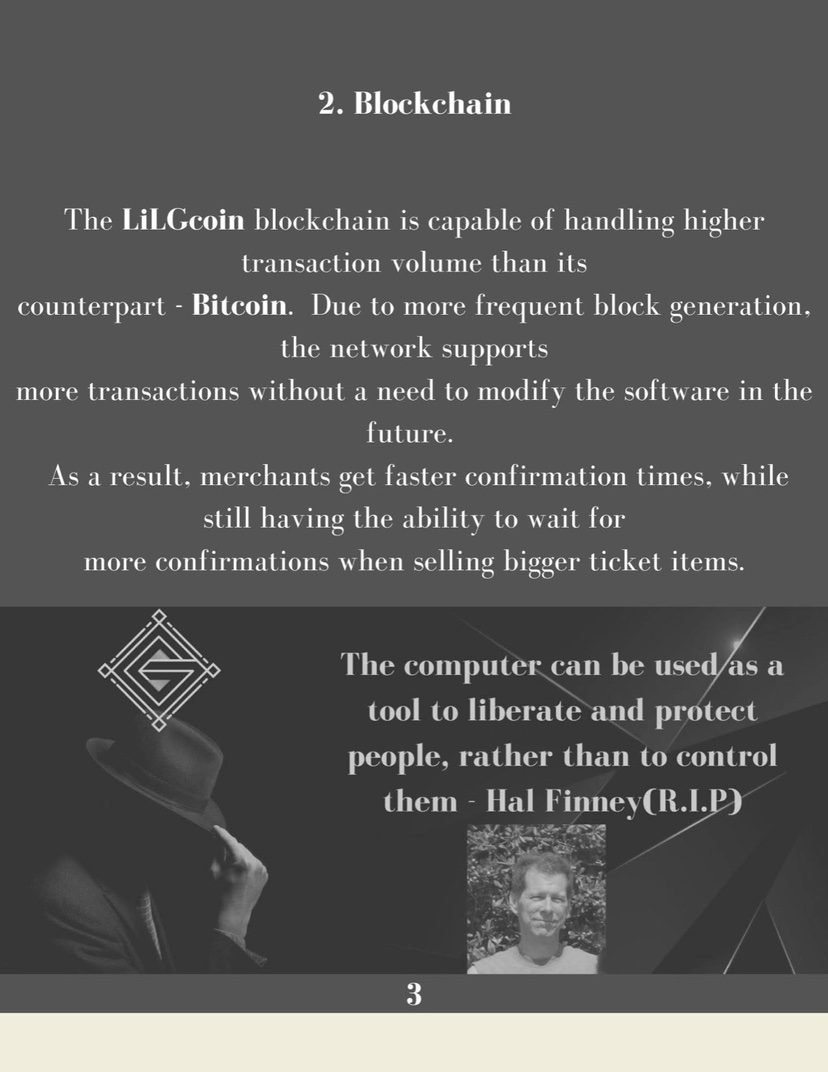
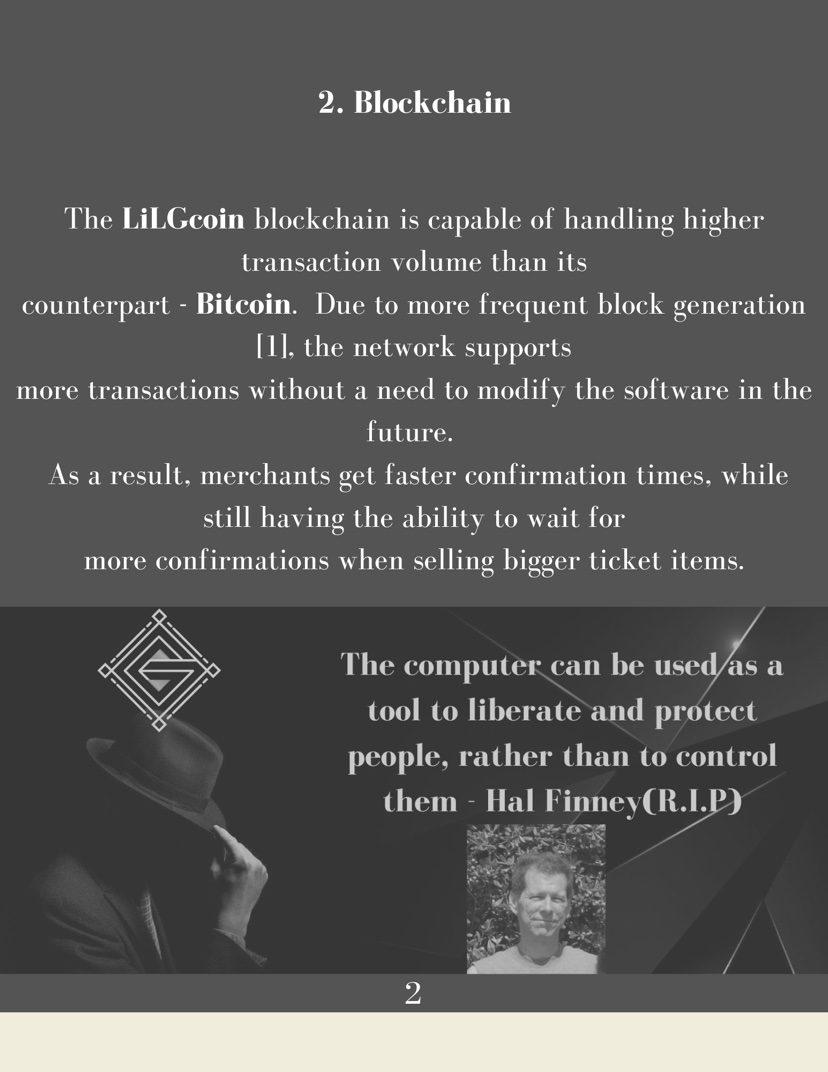
Replace whitepaper with corrected 8-page version with citations and References section

diff --git a/whitepaper.html b/whitepaper.html
@@ -26,6 +26,8 @@
   .paper p { margin-bottom: 14px; }
   .paper ul { padding-left: 22px; }
   .paper li { margin-bottom: 8px; }
+  .refs li { word-break: break-all; }
+  .paper .date { color: #666; font-size: 16px; margin-top: 24px; }
   .paper li strong { color: #222; }
   .paper figure { margin: 28px 0; text-align: center; }
   .paper figure img { max-width: 100%; height: auto; border-radius: 8px; border: 1px solid #e5e5e5; }
@@ -64,22 +66,22 @@
   <figure><img src="whitepaper-intro.jpg" alt="HODLER vs Panic Seller"></figure>
 
   <h2>2. Blockchain</h2>
-  <p>The <strong>LiLGcoin</strong> blockchain is capable of handling higher transaction volume than its counterpart - <strong>Bitcoin</strong>. Due to more frequent block generation, the network supports more transactions without a need to modify the software in the future. As a result, merchants get faster confirmation times, while still having the ability to wait for more confirmations when selling bigger ticket items.</p>
+  <p>The <strong>LiLGcoin</strong> blockchain is capable of handling higher transaction volume than its counterpart - <strong>Bitcoin</strong>. Due to more frequent block generation [1], the network supports more transactions without a need to modify the software in the future. As a result, merchants get faster confirmation times, while still having the ability to wait for more confirmations when selling bigger ticket items.</p>
   <blockquote>The computer can be used as a tool to liberate and protect people, rather than to control them - Hal Finney (R.I.P)</blockquote>
   <figure><img src="whitepaper-blockchain.jpg" alt="Blockchain - Hal Finney quote"></figure>
 
   <h2>3. Transaction Speed Time</h2>
-  <p>On the <strong>Ethereum</strong> blockchain's faster average block time — about 15 seconds vs 10 minutes respectively — increases the speed with which <strong>LGX</strong> can be transacted, compared to <strong>Bitcoin</strong>.</p>
+  <p>On the <strong>Ethereum</strong> blockchain's faster average block time — about 15 seconds vs 10 minutes respectively [2] — increases the speed with which <strong>LGX</strong> can be transacted, compared to <strong>Bitcoin</strong>.</p>
 
   <h2>4. LiLGcoin Wallet/ Card</h2>
   <p><strong>LiLGcoin</strong> plans to be the first crypto to offer a specific cold wallet made for <strong>LGX</strong> and your other crypto assets. Also, <strong>LGX</strong> debit/ credit card for spending in the future.</p>
   <figure><img src="whitepaper-wallet.jpg" alt="Transaction speed and LiLGcoin Wallet/Card"></figure>
 
   <h2>5. LGX Crypto Exchange</h2>
-  <p>In the near future, we plan on creating the <strong>LGX Crypto Exchange</strong> where merchants can swap <strong>LiLGcoin</strong> for other DeFi projects and <strong>LGX Rare Gems</strong> possibly worth 10-1000x more than <strong>LiLGcoin</strong> itself.</p>
+  <p>In the near future, we plan on creating the <strong>LGX Crypto Exchange</strong> where merchants can swap <strong>LiLGcoin</strong> for other DeFi projects and <strong>LGX Rare Gems</strong> [3] possibly worth 10-1000x more than <strong>LiLGcoin</strong> itself.</p>
 
   <h2>6. LGX Gaming</h2>
-  <p>With the possibilities of gaming in the future, we will create a game where merchants can earn <strong>LiLGcoin</strong> by doing daily tasks and playing casino games.</p>
+  <p>With the possibilities of gaming in the future, we will create a game where merchants can earn <strong>LiLGcoin</strong> by doing daily tasks and playing casino games [4].</p>
   <figure><img src="whitepaper-exchange.jpg" alt="LGX Crypto Exchange and LGX Gaming"></figure>
 
   <h2>7. Liquidity</h2>
@@ -99,6 +101,17 @@
     <div class="member"><strong>Daniel DeWitt</strong><span>Chief Technologist</span></div>
   </div>
   <figure><img src="whitepaper-team.jpg" alt="LiLGcoin Development Team"></figure>
+
+  <h2>References</h2>
+  <ol class="refs">
+    <li>Kyber, Ren, and BitGo, "Wrapped Bitcoin", <a href="https://wbtc.network/">https://wbtc.network/</a>, 2018.</li>
+    <li>Toshendra Kumar Sharma, Ethereum vs Bitcoin: A Comparison Guide - Blockchain Council, <a href="https://www.blockchain-council.org/blockchain/ethereum-vs-bitcoin-a-comparison-guide/">https://www.blockchain-council.org/blockchain/ethereum-vs-bitcoin-a-comparison-guide/</a>, 2020.</li>
+    <li>CZ, "Binance Coin", Crypto Exchange Giant Binance to Launch US Trading Tuesday, <a href="https://www.coindesk.com/markets/2019/09/23/crypto-exchange-giant-binance-to-launch-us-trading-tuesday/">https://www.coindesk.com/markets/2019/09/23/crypto-exchange-giant-binance-to-launch-us-trading-tuesday/</a>, 2019.</li>
+    <li>Satoshi Nakamoto, "Bitcoin", Satoshi's Pre-Release Bitcoin Code Contains Fascinating Findings, <a href="https://news.bitcoin.com/satoshis-pre-release-bitcoin-code-contains-some-fascinating-findings/">https://news.bitcoin.com/satoshis-pre-release-bitcoin-code-contains-some-fascinating-findings/</a>, 2019.</li>
+    <li>What Are Liquidity Pool (LP) Tokens?, <a href="https://academy.binance.com/en/articles/what-are-liquidity-pool-lp-tokens">https://academy.binance.com/en/articles/what-are-liquidity-pool-lp-tokens</a>, 2020.</li>
+  </ol>
+  <p class="date">Oct 30, 2021</p>
+  <figure><img src="whitepaper-references.jpg" alt="References"></figure>
 </div>
 
 <footer>
